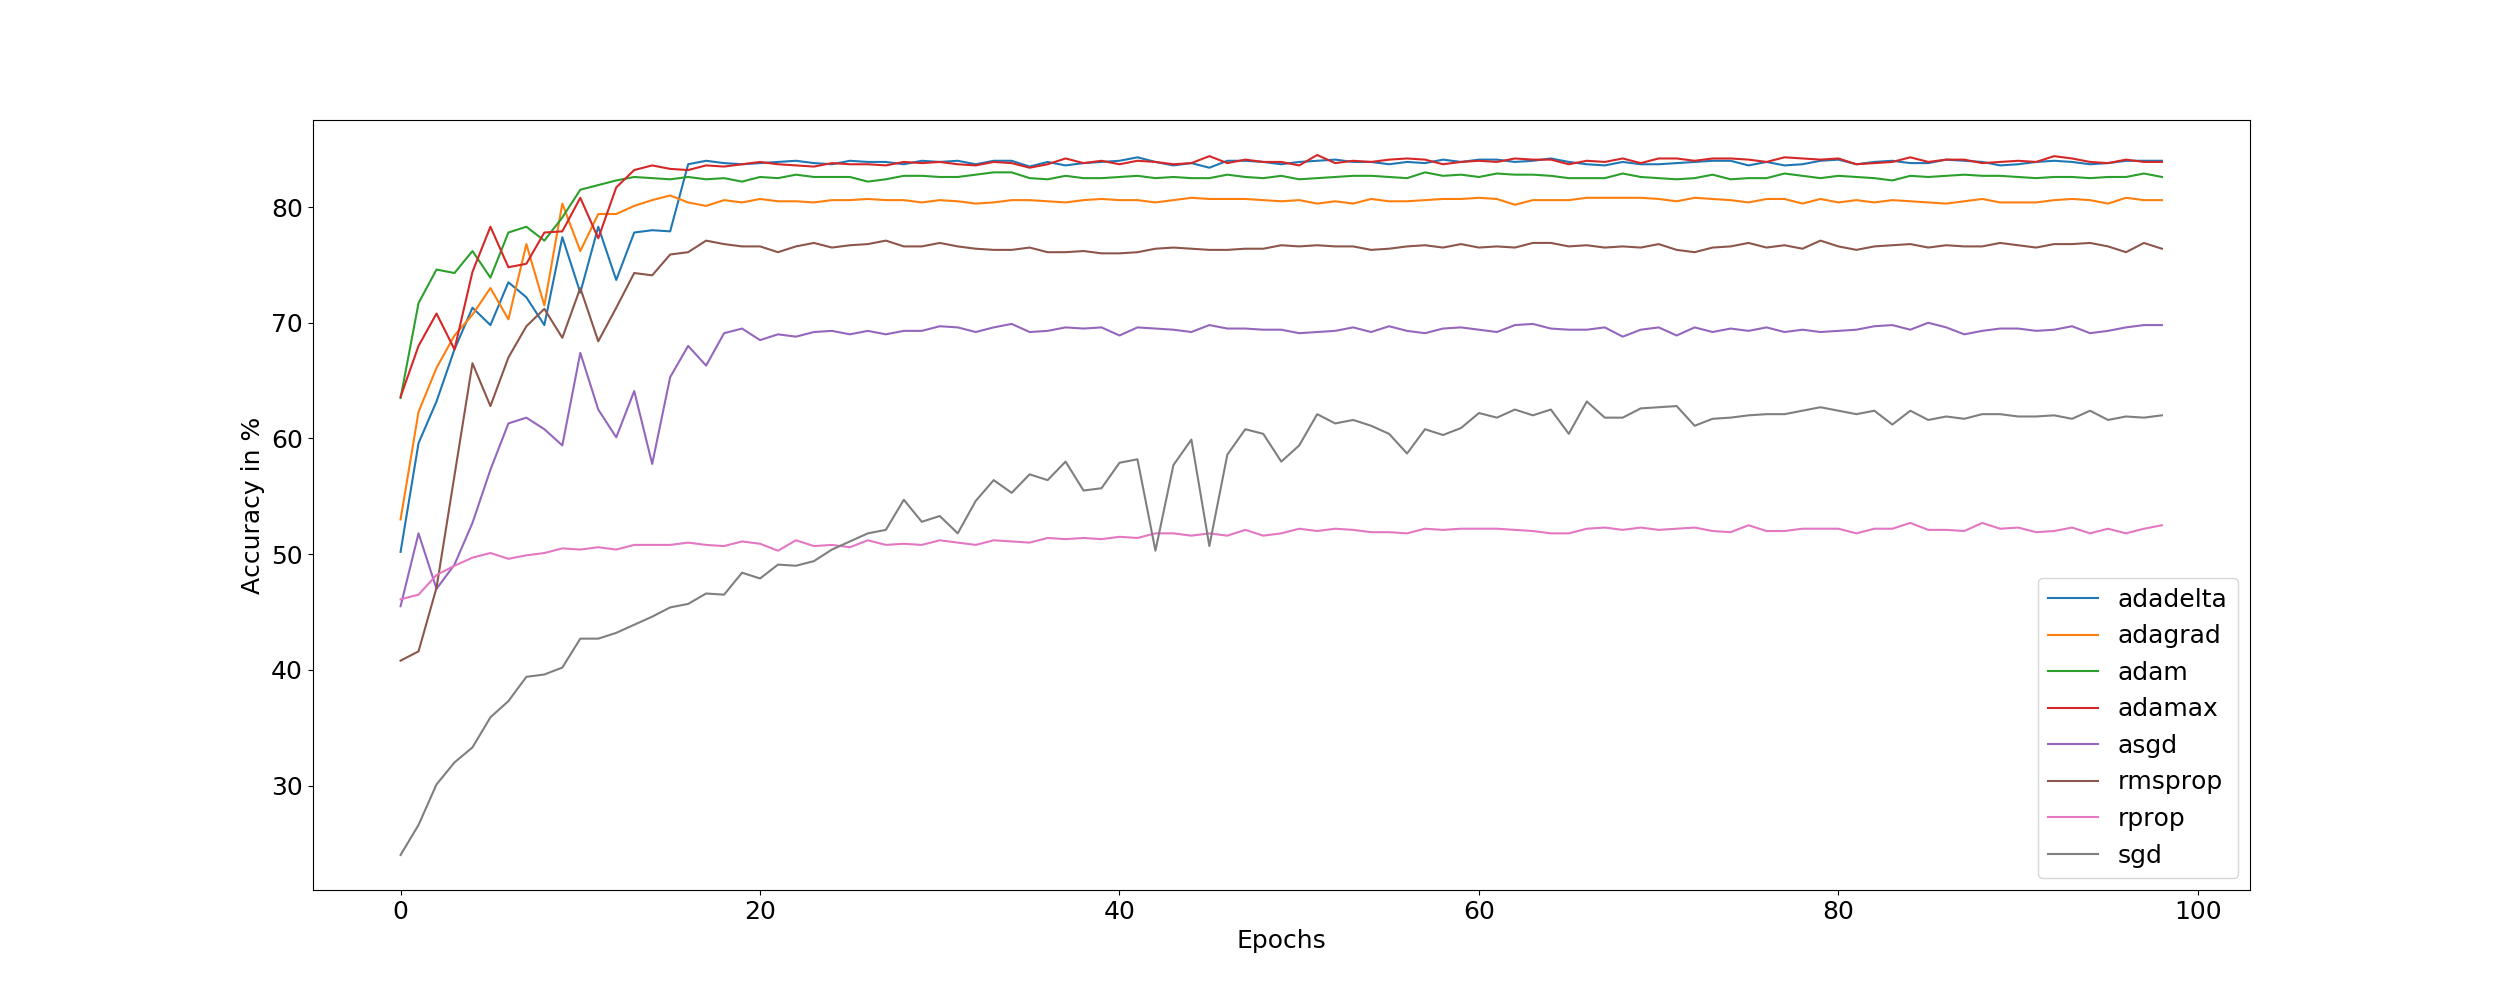
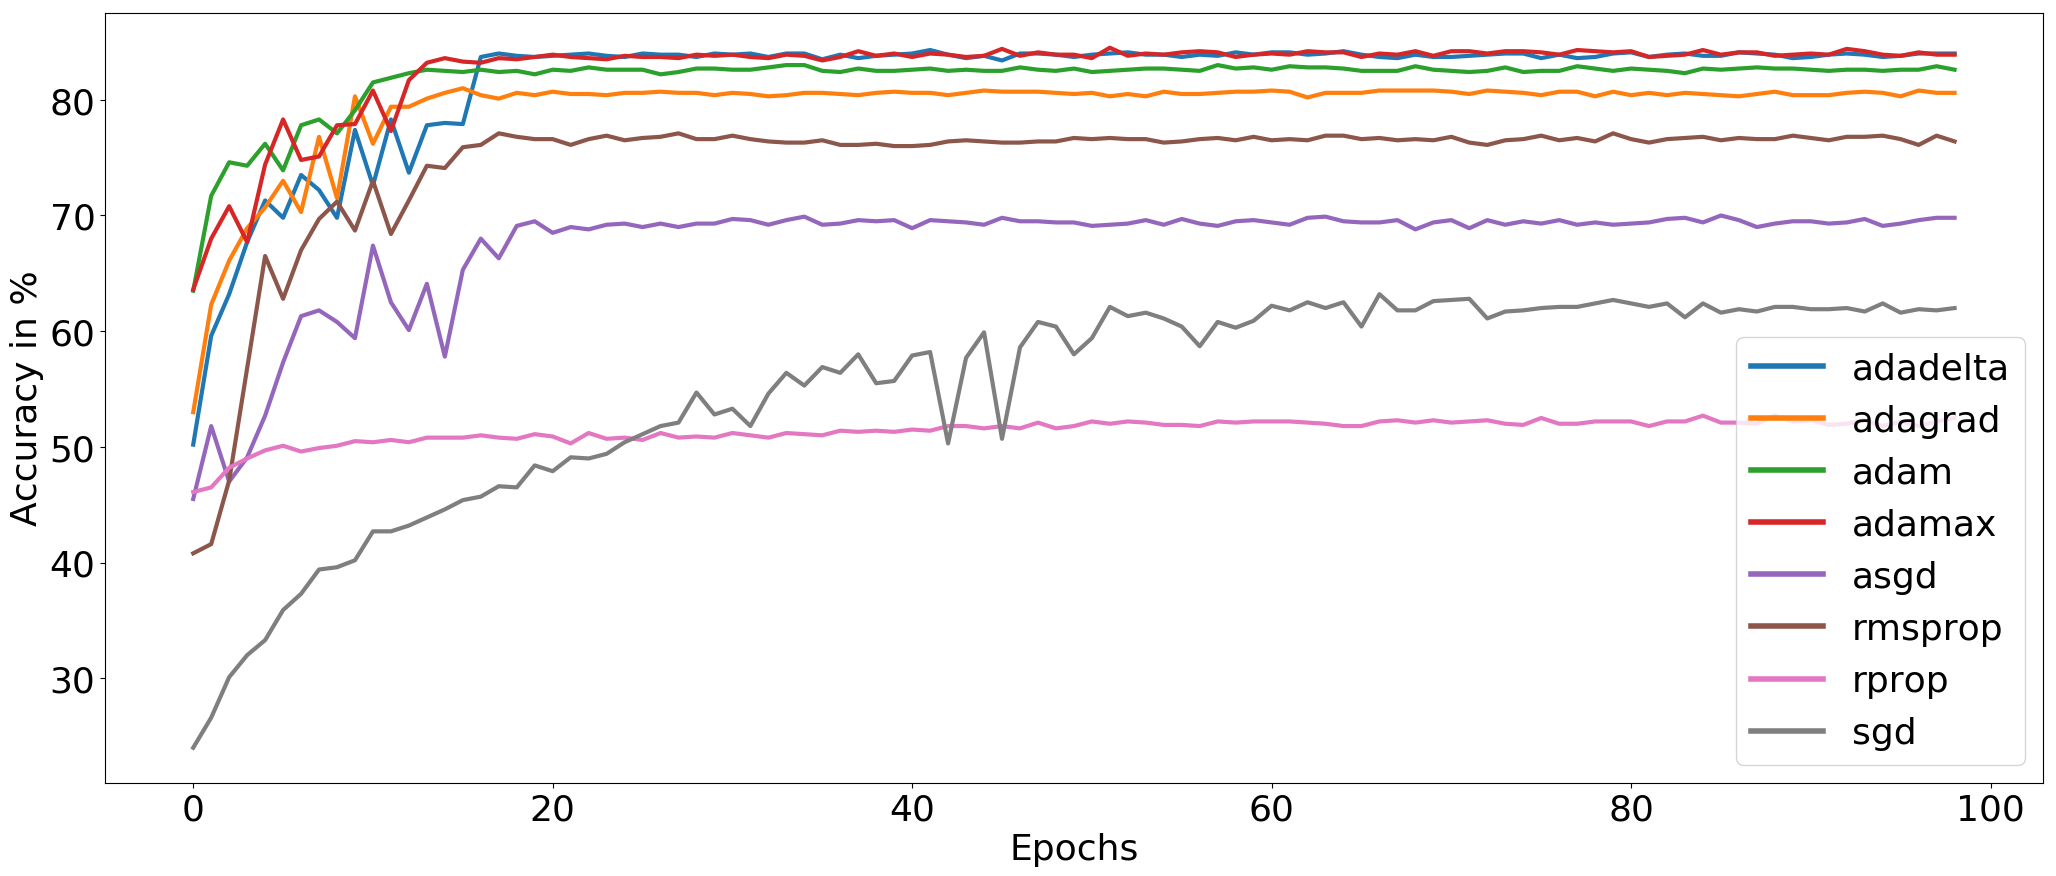
plots fonts bigger

diff --git a/plot.py b/plot.py
@@ -23,70 +23,85 @@ class Plotter(object):
     def plot_accuracy(self):
         # Loop over all files
         plt.figure(figsize=(25, 10))
-        plt.rc('font', size=18)  # controls default text sizes
-        plt.rc('axes', titlesize=18)  # fontsize of the axes title
+        plt.rc('font', size=26)  # controls default text sizes
+        plt.rc('axes', titlesize=26)  # fontsize of the axes title
         # plt.rc('axes', labelsize=MEDIUM_SIZE)  # fontsize of the x and y labels
-        plt.rc('legend', fontsize=18)  # legend fontsize
+        plt.rc('legend', fontsize=26)  # legend fontsize
 
         for label, file in self.labels:
             # Read .csv file and append to list
             df = pd.read_csv(os.path.join(self.args.input_path, file + '_accuracy.csv'))
 
         # Create line for every file
-            plt.plot(df, label=label)
+            plt.plot(df, label=label, linewidth=3.0)
 
         # Generate the plot
-        plt.legend()
+        leg = plt.legend()
         plt.ylabel('Accuracy in %')
         plt.xlabel('Epochs')
         # plt.show()
-        plt.savefig(os.path.join(self.args.output_path, 'accuracy.png'))
+
+        # bulk-set the properties of all lines
+        leg_lines = leg.get_lines()
+        plt.setp(leg_lines, linewidth=4)
+
+        plt.savefig(os.path.join(self.args.output_path, 'accuracy.png'), bbox_inches='tight')
         plt.close()
 
     def plot_validation(self):
         # Loop over all files
         plt.figure(figsize=(25, 10))
-        plt.rc('font', size=18)  # controls default text sizes
-        plt.rc('axes', titlesize=18)  # fontsize of the axes title
+        plt.rc('font', size=26)  # controls default text sizes
+        plt.rc('axes', titlesize=26)  # fontsize of the axes title
         # plt.rc('axes', labelsize=MEDIUM_SIZE)  # fontsize of the x and y labels
-        plt.rc('legend', fontsize=18)  # legend fontsize
+        plt.rc('legend', fontsize=26)  # legend fontsize
 
         for label, file in self.labels:
             # Read .csv file and append to list
             df = pd.read_csv(os.path.join(self.args.input_path, file + '_val_loss.csv'))
 
             # Create line for every file
-            plt.plot(df, label=label)
+            plt.plot(df, label=label, linewidth=3.0)
 
         # Generate the plot
-        plt.legend()
+        leg = plt.legend()
         plt.ylabel('Validation loss')
         plt.xlabel('Epochs')
         # plt.show()
-        plt.savefig(os.path.join(self.args.output_path, 'validation.png'))
+
+        # bulk-set the properties of all lines
+        leg_lines = leg.get_lines()
+        plt.setp(leg_lines, linewidth=4)
+
+        plt.savefig(os.path.join(self.args.output_path, 'validation.png'), bbox_inches='tight')
         plt.close()
 
     def plot_training(self):
         # Loop over all files
         plt.figure(figsize=(25, 10))
-        plt.rc('font', size=18)  # controls default text sizes
-        plt.rc('axes', titlesize=18)  # fontsize of the axes title
+        plt.rc('font', size=26)  # controls default text sizes
+        plt.rc('axes', titlesize=26)  # fontsize of the axes title
         # plt.rc('axes', labelsize=MEDIUM_SIZE)  # fontsize of the x and y labels
-        plt.rc('legend', fontsize=18)  # legend fontsize
+        plt.rc('legend', fontsize=26)  # legend fontsize
 
         for label, file in self.labels:
             # Read .csv file and append to list
             df = pd.read_csv(os.path.join(self.args.input_path, file + '_train_loss.csv'))
 
             # Create line for every file
-            plt.plot(df, label=label)
+            plt.plot(df, label=label, linewidth=3.0)
 
         # Generate the plot
-        plt.legend()
+        leg = plt.legend()
         plt.ylabel('Training loss')
         plt.xlabel('Epochs')
         # plt.show()
-        plt.savefig(os.path.join(self.args.output_path, 'train.png'))
+
+        # bulk-set the properties of all lines
+        leg_lines = leg.get_lines()
+        plt.setp(leg_lines, linewidth=4)
+
+        plt.savefig(os.path.join(self.args.output_path, 'train.png'), bbox_inches='tight')
         plt.close()
 
     def obtain_labels(self):
